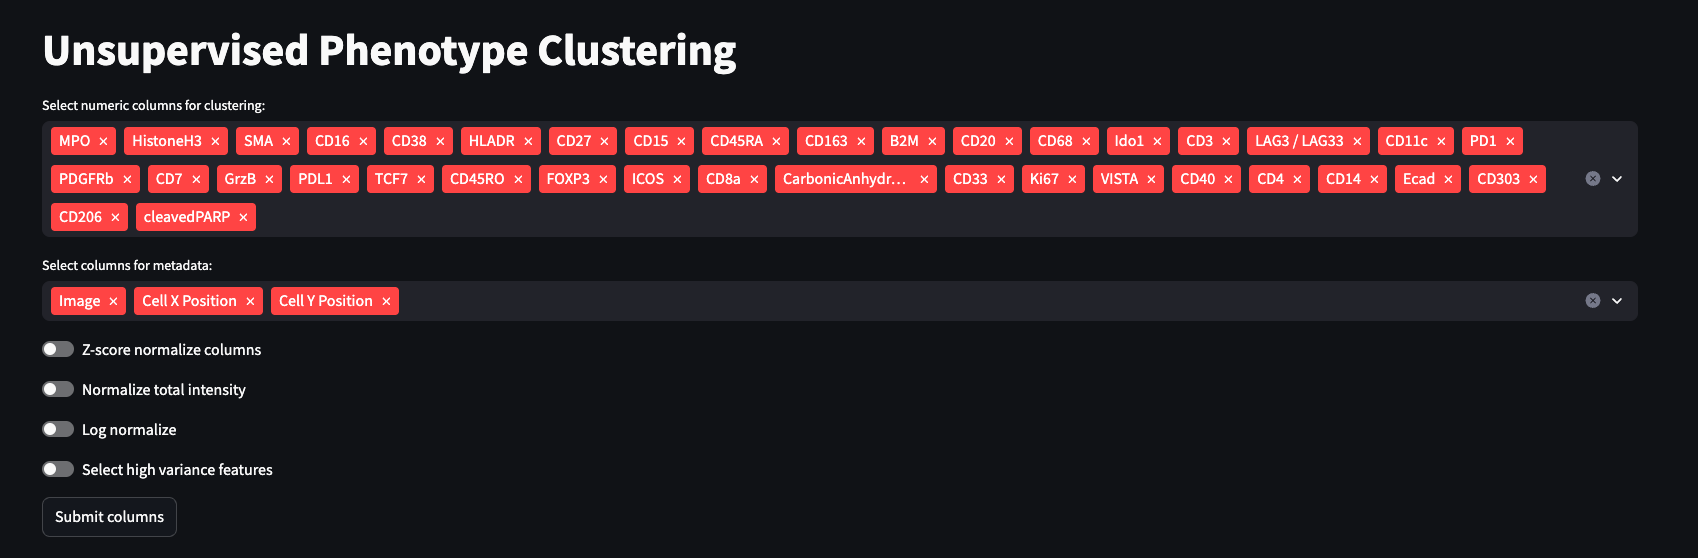
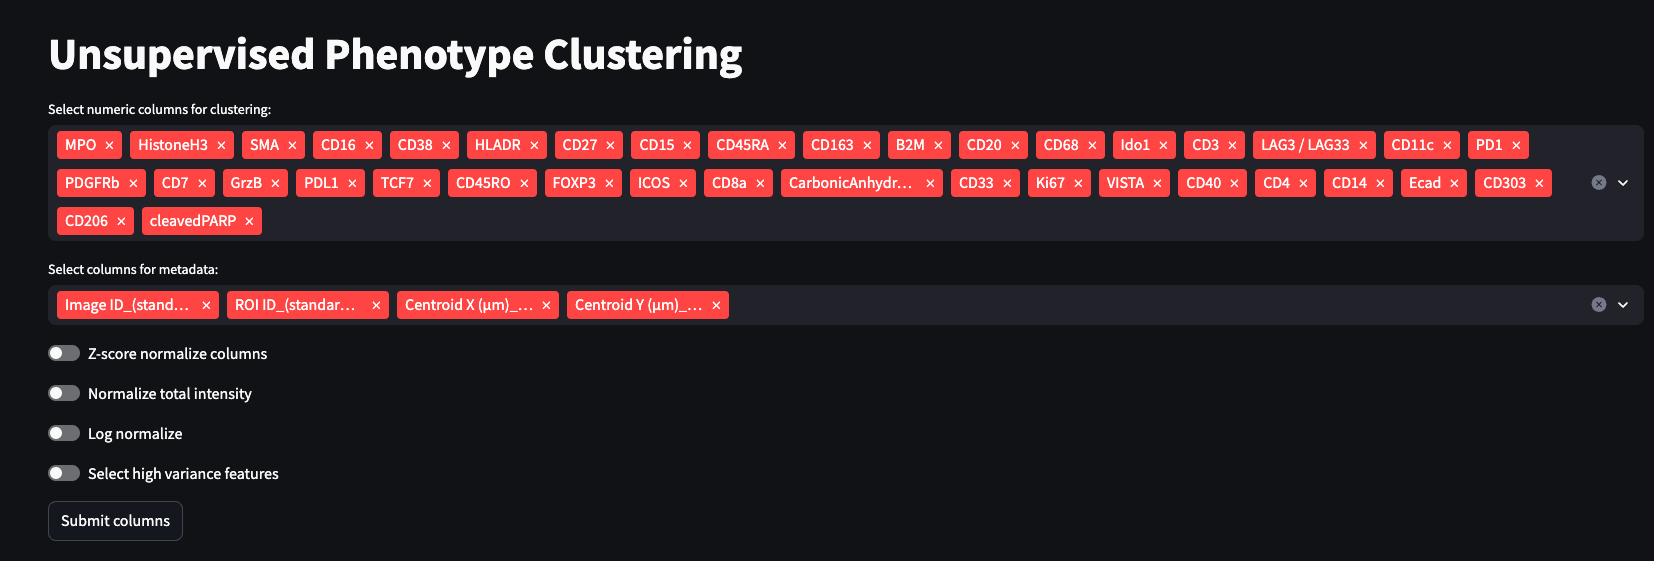
data preprocessing

diff --git a/session_2/session_2.md b/session_2/session_2.md
@@ -1,9 +1,31 @@
+**Introduction**
+
 Unsupervised clustering provides several advantages over traditional manual annotation of the cell types. All images in the dataset can be evaluated together and it helps to reduce personally introduced bias. Unsupervised clustering workflow primarily consists of two steps, construction of the neighborhood graph and evaluation of the graph with a community detection algorithm. 
 
 To select Unsupervised Phenotype Clustering application click on it in the left side menu.
 
 ![UC_location](images/uc_location.png)
 
+**Data preprocessing**
+
 You will be presented with multiselect column options
 
 ![Create_adata](images/create_adata.png)
+
+For the top multiselect option, you'll need to choose numeric columns, based on which you would like your data to be clustered.
+The following multiselect input field accepts columns that will be added as metadata (Currently standardized columns for Image ID and coordinates of the cells have to be included in the selection).
+
+The next set of togles includes normalization and scaling options
+
+![Normalization_options](images/normalization_options.png)
+
+[Z-score normalization](https://scanpy.readthedocs.io/en/stable/generated/scanpy.pp.scale.html) is a method of scaling data so that it has a mean of 0 and a standard deviation of 1.
+
+[Normalise total intensity](https://scanpy.readthedocs.io/en/stable/generated/scanpy.pp.normalize_total.html) adjusts each cell by total intensity/counts over all markers, so that every cell has the same total intensity/count after normalization.
+
+[Log normalize](https://scanpy.readthedocs.io/en/stable/generated/scanpy.pp.log1p.html) applies natural logarithm normalization.
+
+Lastly, [Select high variance features](https://scanpy.readthedocs.io/en/stable/generated/scanpy.pp.highly_variable_genes.html) is currently an experimental method that might help to select most variable markers.
+
+**Clustering options**
+
